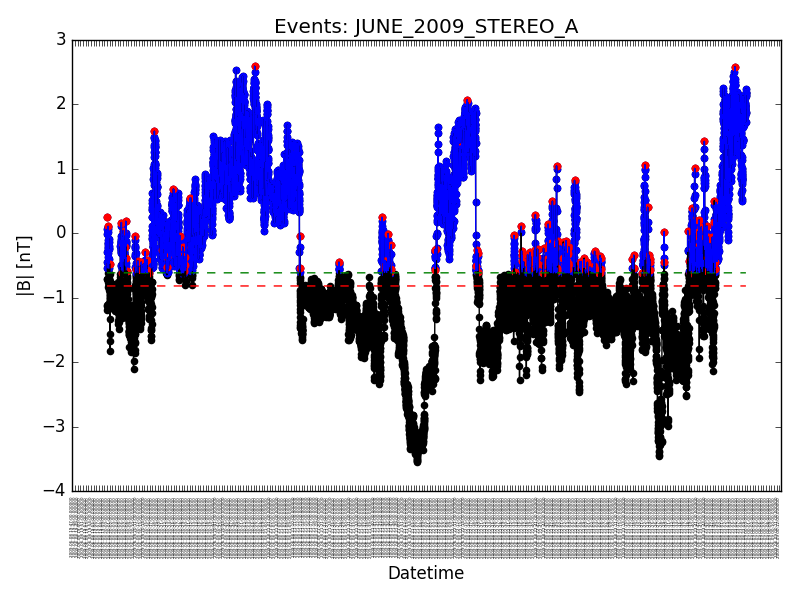
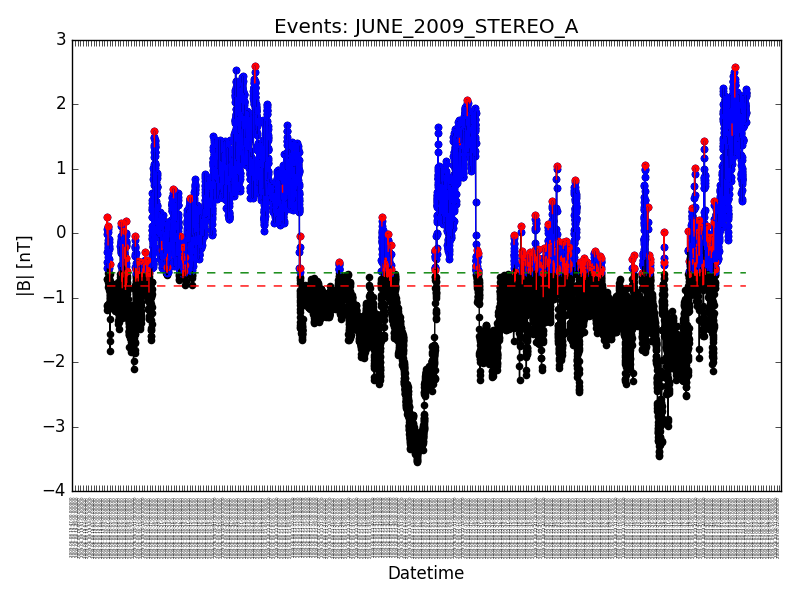
make adjacent lines to peak red

diff --git a/ife_processing.py b/ife_processing.py
@@ -77,7 +77,7 @@ def magEnhance(datetime_list, b_total_list):
 	trimmed_mean = stats.trim_mean(b_total_list, percent_trim)
 	plt.plot(datetime_convert, [trimmed_mean]*len(b_total_list), '--', color='red') # print with mean
 
-	## Red line for regions above the cutoff 25%
+	################## Red line for regions above the cutoff 25%
 	great_25 = []
 	cutoff_percent = abs(trimmed_mean * .25)
 	cutoff = trimmed_mean + cutoff_percent
@@ -94,7 +94,7 @@ def magEnhance(datetime_list, b_total_list):
 	plt.scatter(datetime_convert, great_25, color='blue')
 	plt.plot(datetime_convert, great_25, color='blue') # overlay graph with regions that are above the mean
 
-	## Point for the peak among the red lines for cutoff
+	################## Point for the peak among the red lines for cutoff
 	# find the max for each group of values that are above red
 	above_cutoff_groupings = [great_25[s] for s in np.ma.clump_unmasked(np.ma.masked_invalid(great_25))]
 	import operator
@@ -105,7 +105,7 @@ def magEnhance(datetime_list, b_total_list):
 		index_list.append(index)
 		max_print_list.append(max_value)
 
-	# find the single max value for cutoff sections
+	################## find the single max value for cutoff sections
 	max_point = []
 	for max_pt in great_25:
 		if max_pt not in max_print_list:
@@ -116,8 +116,19 @@ def magEnhance(datetime_list, b_total_list):
 	if np.count_nonzero(~np.isnan(max_point)) != len(max_print_list):
 		print("WARNING: duplicates found, {0}!={1}".format(np.count_nonzero(~np.isnan(max_point)), len(max_print_list)))
 	plt.scatter(datetime_convert, max_point, color='red')
-	plt.scatter(datetime_convert, max_point, color='red')
+	# Make adjacent lines to peak red
+	red_adjacent = []
+	red_adjacent = list(max_point)
+	for i in range(len(red_adjacent)):
+		if not np.isnan(max_point[i]):
+			if (i-1) in range(0, len(b_total_list)): # add value if it is within the range of the given list (doesn't go out of index)
+				red_adjacent[i-1] = b_total_list[i-1]
+			if (i+1) in range(0, len(b_total_list)): # add value if it is within the range of the given list (doesn't go out of index)
+				red_adjacent[i+1] = b_total_list[i+1]
+	# creates list with max point (peak) and the left/right adjacent values as red
+	plt.plot(datetime_convert, red_adjacent, color='red')
 
+	################## Plot axis titles and format font size
 	plt.title('Events: {0}'.format(os.path.basename(os.path.splitext(filename)[0])))
 	plt.ylabel('|B| [nT]')
 	plt.xlabel('Datetime')
@@ -195,6 +206,6 @@ if __name__ == '__main__':
 	#print(ife_processing)
 
 	peaks_list = magEnhance(datetime_lst, b_total)
-	print(peaks_list)
+	#print(peaks_list)
 	#outputCSV(filename, ife_processing)
 
